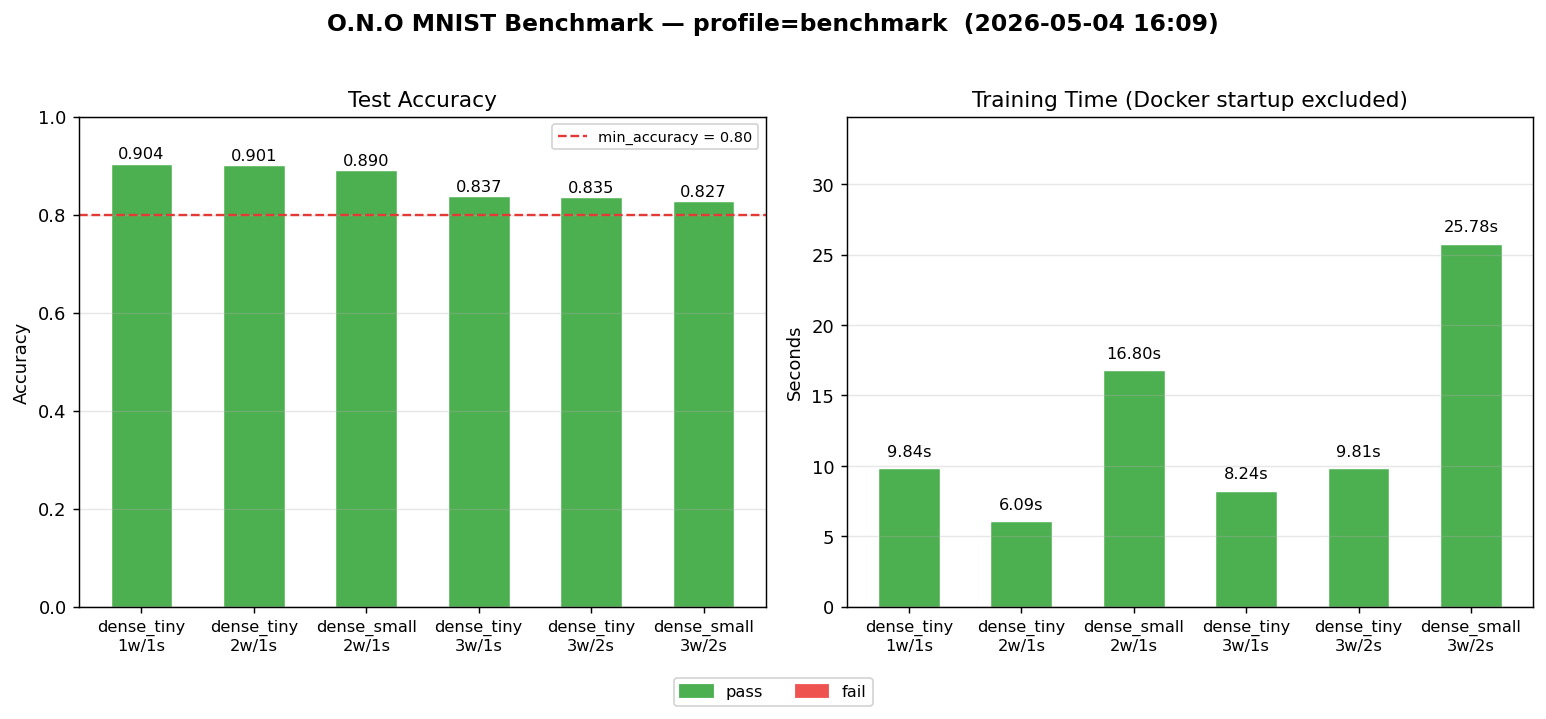
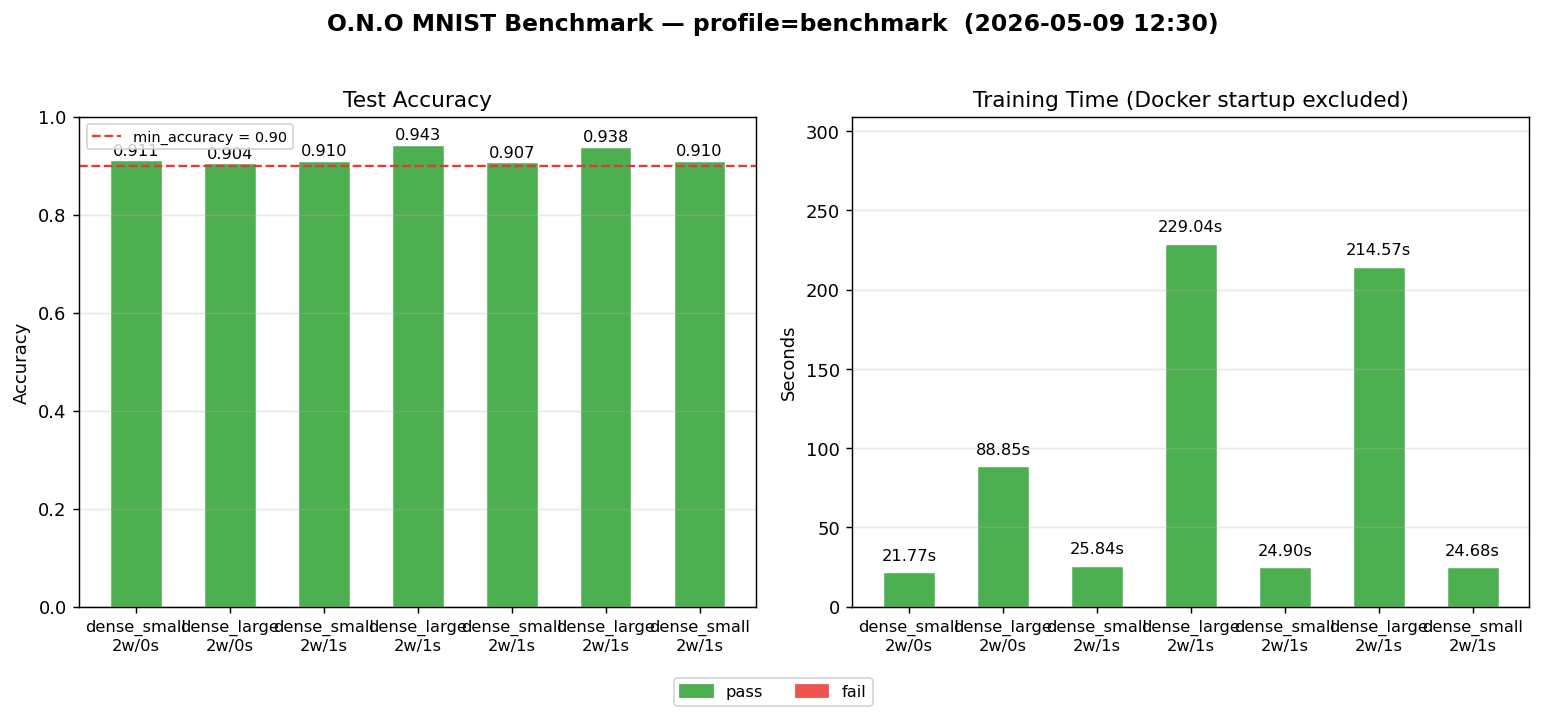
feat(benchmarks): tune configs, add issues log and manual testing support
- Add compound model+preset overrides to fix dense_large early stopping on PS
- Add allreduce and conv_investigation profiles to mnist_e2e.py
- Add docker log capture utility to mnist_e2e.py
- Document ring cleanup, conv2d backward, and sparse serializer bugs in ISSUES.md
- Update .gitignore to exclude benchmarks/manual/

diff --git a/benchmarks/mnist_e2e.py b/benchmarks/mnist_e2e.py
@@ -36,6 +36,7 @@ RESULTS_DIR   = BENCH_DIR / "results"
 PLOTS_DIR     = BENCH_DIR / "plots"
 ARTIFACTS_DIR = RESULTS_DIR / "artifacts"
 SUBSET_DIR    = RESULTS_DIR / "data"
+DOCKER_LOGS_DIR = RESULTS_DIR / "docker_logs"
 
 X_SIZE = 784
 Y_SIZE = 10
@@ -354,6 +355,21 @@ def docker_up(workers: int, servers: int, rebuild: bool, release: bool = True) -
     time.sleep(3)  # build step (COPY context) already provides ~15-20s; 3s covers node startup
     return time.perf_counter() - t0
 
+
+
+def capture_docker_logs(workers: int, servers: int, label: str):
+    """Save logs from all containers to DOCKER_LOGS_DIR/<label>/<container>.log."""
+    DOCKER_LOGS_DIR.mkdir(parents=True, exist_ok=True)
+    run_dir = DOCKER_LOGS_DIR / label
+    run_dir.mkdir(exist_ok=True)
+    names = [f"worker-{i}" for i in range(workers)] + [f"server-{i}" for i in range(servers)]
+    for name in names:
+        r = subprocess.run(
+            ["docker", "logs", name],
+            capture_output=True,
+            text=True,
+        )
+        (run_dir / f"{name}.log").write_text(r.stdout + r.stderr)
 
 
 def docker_down():
@@ -771,7 +787,7 @@ def plot_results(results: list, profile: str, run_ts: str):
 
 def parse_args():
     p = argparse.ArgumentParser(description="MNIST end-to-end benchmark for O.N.O")
-    p.add_argument("--profile",         choices=["smoke", "benchmark"], default="smoke")
+    p.add_argument("--profile",         choices=["smoke", "benchmark", "allreduce", "conv_investigation"], default="smoke")
     p.add_argument("--config",          type=Path,
                    default=Path(__file__).parent / "mnist_configs.json")
     p.add_argument("--output",          type=Path)
@@ -908,6 +924,12 @@ def main():
                     break
 
         finally:
+            log_label = f"{topology_id}_{datetime.datetime.now().strftime('%H-%M-%S')}"
+            try:
+                capture_docker_logs(workers, servers, log_label)
+                print(f"  docker logs saved → results/docker_logs/{log_label}/")
+            except Exception as ex:
+                print(f"  WARNING: log capture failed: {ex}")
             if not args.keep_containers:
                 print("\n  stopping containers...")
                 try:

diff --git a/benchmarks/ISSUES.md b/benchmarks/ISSUES.md
@@ -1,0 +1,198 @@
+# Benchmark Issues Log
+
+Errores y comportamientos anómalos detectados durante las ejecuciones del benchmark MNIST e2e.
+Rama: `feat/benchmark-allreduce-models`. Ejecutado: 2026-05-08.
+
+---
+
+## Errores arquitectónicos / de protocolo
+
+### [CRÍTICO] Ring cleanup falla después de cada sesión AllReduce — afecta la siguiente sesión
+
+**Cómo se manifiesta:**
+1. Una sesión de AllReduce termina normalmente (el orquestador recibe el modelo).
+2. El worker ejecuta `ring_manager.disconnect()` (después de la comunicación con orch).
+3. El ring disconnect falla con **`session failed: early eof`** ~30 segundos después del stop.
+4. La **siguiente sesión** lee datos residuales del ring anterior y falla:
+   - En 2w: a veces funciona (conexión en cola, datos son descartados sin corrupt)
+   - En 3w: falla consistentemente con **`buffer too small 0, must at least be 4 bytes`** o **`Broken Pipe`**
+
+**Evidencia docker logs (2w_0s, 3w_0s groups 2026-05-08):**
+```
+# 2w: patrón por cada run ar_2w_base
+23:38:33 received a stop command from orchestrator
+23:39:03 session failed with an error: early eof        ← ring cleanup failure (30s después)
+23:39:03 starting worker session                        ← nueva sesión inmediata
+
+# 3w: la segunda sesión lee basura del ring anterior
+23:51:26 received a stop command from orchestrator       ← dense_small terminó
+23:51:56 session failed with an error: early eof         ← ring cleanup failure
+23:51:56 starting worker session                         ← dense_large arranca
+23:52:25 session failed with an error: The given buffer is too small 0  ← ring residual
+```
+
+**Root cause (mismo que PR `all-reduce/early-stopping` de Marcos):**
+`ring_manager.disconnect()` está al final de `all_reduce.rs::run()`. Si cualquier
+operación de orch falla con `?`, o cuando el orquestador cierra su conexión antes de que
+el ring se limpie, el ring nunca se desconecta limpiamente. Datos TCP residuales quedan
+en los buffers, y la siguiente sesión los lee como frames válidos.
+
+**Impacto en benchmark:** en un Docker lifecycle con múltiples runs por topología:
+- **2 workers:** runs 1-4 completan (con delays de 30s entre sesiones), luego ar_2w_sparse
+  falla con Broken Pipe.
+- **3 workers:** solo run 1 completa; todas las siguientes fallan con ring stale data.
+
+**Status:** reportado a Marcos — ver PR de `all-reduce/early-stopping`.
+
+**Hallazgo adicional (2026-05-09):** El mismo escenario (mismos workers, misma topología, múltiples runs) funciona correctamente usando **orchestui** (orquestador Rust puro). El bug es específico de **orchestra-py**: Python cierra la conexión con el worker antes de que `ring_manager.disconnect()` termine en el otro lado del ring → el peer ve `early eof` → stale data en siguiente sesión. Reconstruir orchestra-py con maturin (`--release`) no resuelve el problema porque el bug está en el timing del protocolo de cierre de sesión en orchestra-py, no en el código del worker.
+
+---
+
+### [CRÍTICO] ar_2w_sparse — Broken Pipe en todos los modelos
+
+**Runs afectadas:** toda combinación que use `ar_2w_sparse` (SparseSerializer + AllReduce)
+
+**Error:**
+```
+RuntimeError: io error: Broken pipe (os error 32)
+  at orchestra.orchestrate(model, training)
+```
+
+**Causa probable:** El SparseSerializer genera un frame de gradiente con formato
+incompatible con el protocolo de ring AllReduce. El receptor cierra el lado de lectura
+antes de que el sender termine → Broken Pipe.
+
+**Nota:** El problema también ocurre como consecuencia del ring cleanup de la sesión
+anterior (los datos residuales hacen que el ring falle al intentar comunicar datos sparse).
+
+**¿Qué funciona?** ar_2w_base y ar_3w_base con BaseSerializer.
+
+**Status:** no investigado formalmente — necesita análisis del handshake SparseSerializer ↔ ring.
+
+---
+
+## Errores de ML / convergencia
+
+### [CRÍTICO] Conv2d no converge en ninguna topología ni algoritmo — accuracy aleatoria
+
+**Runs afectadas:** toda combinación con conv_small o conv_large.
+
+**Resultados observados (2026-05-06 a 2026-05-08):**
+| run                              | acc   |
+|----------------------------------|-------|
+| conv_small × ps_2w_1s_base_barrier | 0.101 |
+| conv_small × ar_2w_base          | 0.113 |
+| conv_large × ar_2w_base          | 0.113 |
+| conv_small × ar_3w_base          | 0.098 |
+
+Accuracy invariablemente ~0.10 = clasificación aleatoria en 10 clases.
+El error NO está en el protocolo distribuido (se reproduce en PS y AllReduce).
+
+**Hipótesis:** El backward pass de Conv2d en Rust no actualiza los pesos del kernel.
+La capa Dense que sigue aprende, pero sobre features aleatorias fijas → acc aleatoria.
+
+**Status:** no investigado — necesita inspección de conv2d backward pass en Rust.
+
+---
+
+### [RESUELTO] dense_large no alcanza 0.90 con AllReduce 2 workers
+
+**Fix aplicado:** `early_stopping_tolerance: 5e-5, max_train_seconds: 1800` → acc=0.904 ✓
+
+---
+
+### [CRÍTICO] dense_large falla con random accuracy en todas las topologías PS (base + nonblocking)
+
+**Runs afectadas:** `dense_large × ps_2w_1s_base_barrier`, `dense_large × ps_2w_1s_nonblocking`
+
+**Síntomas:** acc ~0.11-0.20, training termina en ~10-12s (dense_small tarda ~25-30s)
+
+**Root cause confirmado (2026-05-09):** `early_stopping_tolerance: 5e-5` aplicado globalmente
+a dense_large dispara early stopping en el primer epoch con PS porque la mejora de loss se
+mide por sync round (= mini-batch), no por epoch. Con 242k params y lr=0.5, la mejora por
+mini-batch en la primera vuelta es < 5e-5 aunque el modelo esté entrenando correctamente.
+
+Con AllReduce la tolerancia funciona porque AllReduce sincroniza gradientes por época completa,
+no por mini-batch. En PS, cada forward+backward de cada worker dispara un sync.
+
+**Fix:** `early_stopping_tolerance: null` (deshabilitado) para dense_large + PS combinations.
+Resultado: `dense_large × ps_base_barrier` → acc=0.943, 229s **PASS ✓**
+           `dense_large × ps_nonblocking`  → acc=0.938, 215s **PASS ✓**
+
+**Status:** resuelto en `mnist_configs.json` con overrides compuestos `model+preset`.
+
+---
+
+### [MENOR] dense_large × ps_2w_1s_sparse_barrier — deadline tras ~211s
+
+**Run afectada:** `dense_large × ps_2w_1s_sparse_barrier`
+
+**Error:** `Peer took too long to respond: deadline has elapsed` (en worker-1, ~211s después del inicio)
+
+**Nota:** dense_small × ps_sparse_barrier funciona correctamente (24.7s, 0.910). El problema
+es específico de dense_large (242k params). El training arranca y progresa durante 211s antes
+de que alguna operación de sincronización se trabe. Puede estar relacionado con el tamaño del
+gradiente sparse para modelos con más parámetros cruzando algún límite interno.
+
+**Status:** no investigado formalmente — no afecta el perfil de benchmark (se puede excluir
+dense_large del sparse preset, o desactivar early_stopping como se hizo con base/nonblocking).
+
+---
+
+## Notas por combinación (resultados completos 2026-05-08)
+
+### Run original (tolerance 1e-4)
+
+| modelo      | preset             | acc    | train_s | resultado | notas                             |
+|-------------|--------------------|--------|---------|-----------|-----------------------------------|
+| dense_small | ar_2w_base         | 0.911  | 19s     | PASS ✓    | estable, reproducible             |
+| dense_small | ar_3w_base         | 0.905  | 26s     | PASS ✓    | estable, reproducible             |
+| dense_small | ar_2w_sparse       | ERR    | -       | ERROR     | Broken Pipe — SparseSerializer    |
+| dense_large | ar_2w_base         | 0.895  | 81s     | FAIL      | tolerancia 1e-4 muy agresiva      |
+| dense_large | ar_3w_base         | ERR    | -       | ERROR     | ring stale data de sesión anterior|
+| dense_large | ar_2w_sparse       | ERR    | -       | ERROR     | Broken Pipe                       |
+| conv_small  | ar_2w_base         | 0.113  | 84s     | FAIL      | BUG backward pass conv2d          |
+| conv_small  | ar_3w_base         | 0.098  | 32s     | FAIL      | BUG backward pass conv2d          |
+| conv_small  | ar_2w_sparse       | ERR    | -       | ERROR     | Broken Pipe                       |
+| conv_large  | ar_2w_base         | 0.113  | 127s    | FAIL      | BUG backward pass conv2d          |
+| conv_large  | ar_3w_base         | ERR    | -       | ERROR     | ring stale + crash                |
+| conv_large  | ar_2w_sparse       | ERR    | -       | ERROR     | Broken Pipe                       |
+| dense_small | ps_2w_1s_base_barrier | 0.910 | ~?   | PASS ✓    | histórico — ver runs anteriores   |
+| conv_small  | ps_2w_1s_base_barrier | 0.101 | ~?   | FAIL      | BUG backward pass conv2d          |
+
+### Re-run profile allreduce (tolerance 5e-5 para dense_large)
+
+| modelo      | preset             | acc    | train_s | resultado | notas                                |
+|-------------|--------------------|--------|---------|-----------|--------------------------------------|
+| dense_small | ar_2w_base         | 0.911  | 22.7s   | PASS ✓    | estable                              |
+| dense_large | ar_2w_base         | **0.904**  | 105.2s  | **PASS ✓** | fix tolerance 5e-5 confirmado     |
+| dense_small | ar_3w_base         | 0.905  | 30.1s   | PASS ✓    | estable                              |
+| dense_large | ar_3w_base         | ERR    | -       | ERROR     | ring stale bug (Broken Pipe), siempre falla si hay run anterior en 3w |
+
+### Run profile benchmark — resultados finales (2026-05-09)
+
+| modelo      | preset                    | acc    | train_s | resultado | notas                                      |
+|-------------|---------------------------|--------|---------|-----------|-------------------------------------------|
+| dense_small | ar_2w_base                | 0.911  | 21.8s   | PASS ✓    | estable                                   |
+| dense_large | ar_2w_base                | 0.904  | 88.8s   | PASS ✓    | tolerance 5e-5 (AllReduce, por epoch)     |
+| dense_small | ps_2w_1s_base_barrier     | 0.910  | 25.8s   | PASS ✓    | estable                                   |
+| dense_large | ps_2w_1s_base_barrier     | **0.943** | 229.0s | **PASS ✓** | fix: early_stopping=null para PS       |
+| dense_small | ps_2w_1s_nonblocking      | 0.907  | 24.9s   | PASS ✓    | estable                                   |
+| dense_large | ps_2w_1s_nonblocking      | **0.938** | 214.6s | **PASS ✓** | fix: early_stopping=null para PS       |
+| dense_small | ps_2w_1s_sparse_barrier   | 0.910  | 24.7s   | PASS ✓    | SparseSerializer + PS funciona            |
+| dense_large | ps_2w_1s_sparse_barrier   | ERR    | 211s    | ERROR     | deadline elapsed, sólo con dense_large    |
+
+---
+
+## Config recomendada para pasar 0.90
+
+Basada en los datos actuales:
+
+1. **Excluir conv_small y conv_large** de todos los profiles hasta resolver conv2d backward.
+2. **Excluir ar_2w_sparse** hasta resolver SparseSerializer incompatibility con ring AllReduce.
+3. **dense_large + AllReduce:** `early_stopping_tolerance: 5e-5, max_train_seconds: 1800`.
+4. **dense_large + PS:** `early_stopping_tolerance: null` — early stopping granularidad mini-batch, no epoch.
+5. **Para ar_3w_base:** solo usar dense_small (ring stale bug impide segunda sesión en misma topología).
+6. **dense_large × ps_sparse_barrier:** deadline tras 211s — excluir o investigar límite de tamaño.
+
+La config actualizada ya refleja estas decisiones en `mnist_configs.json`.